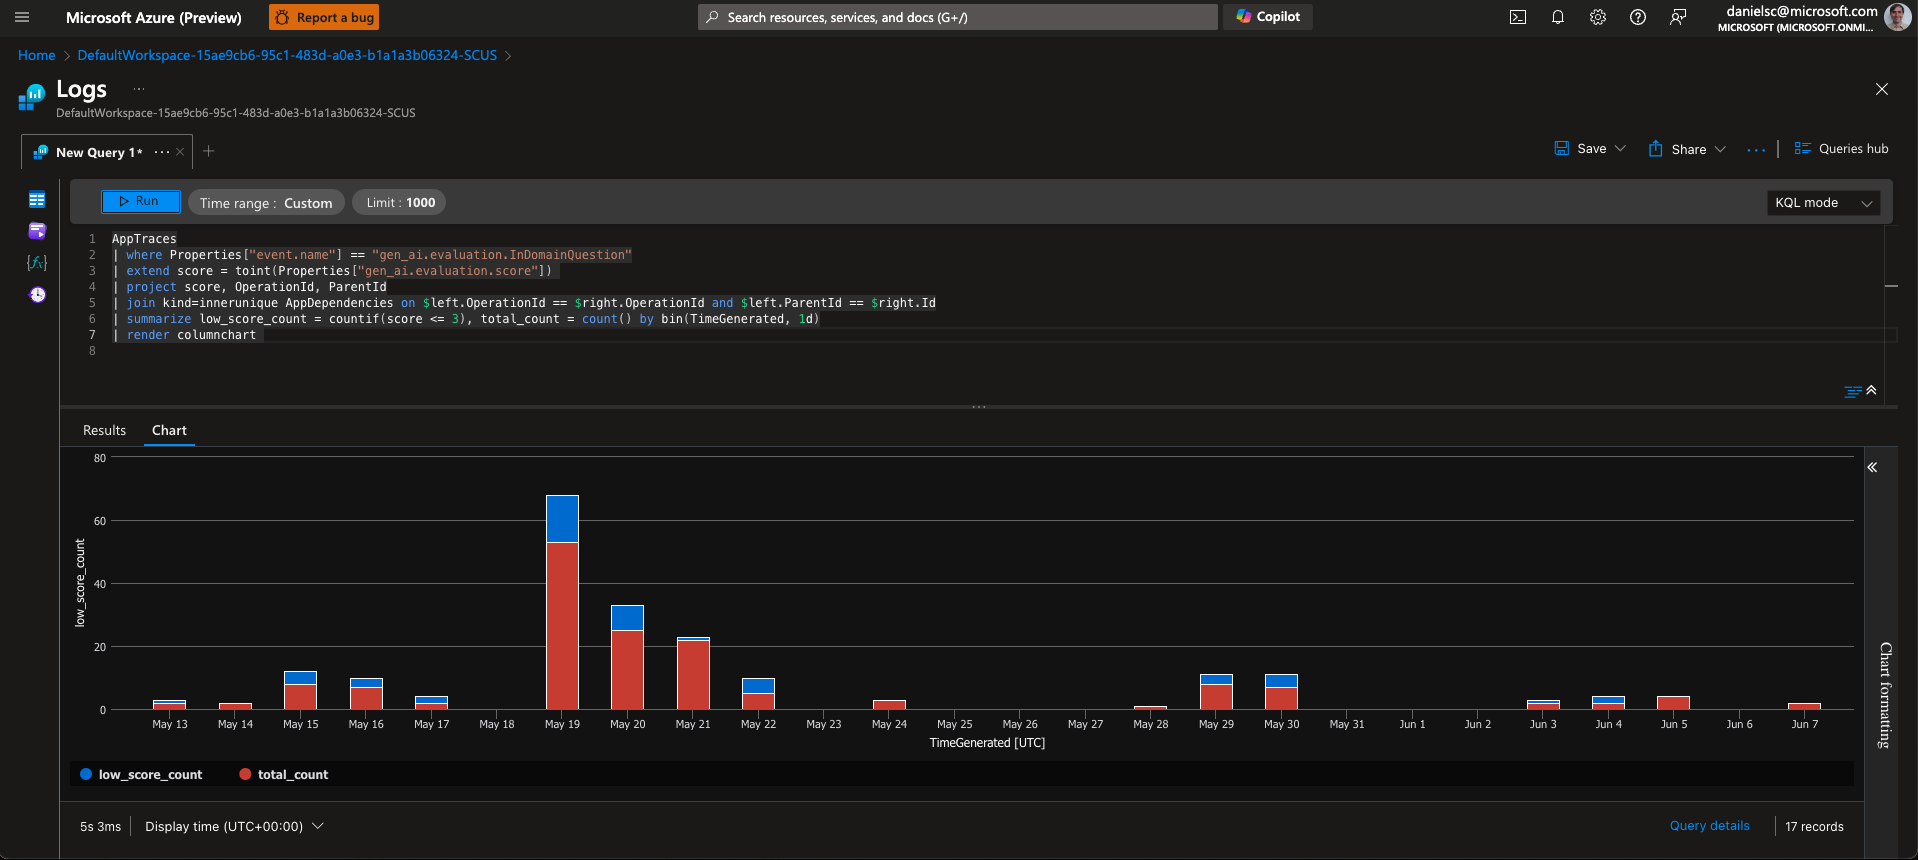
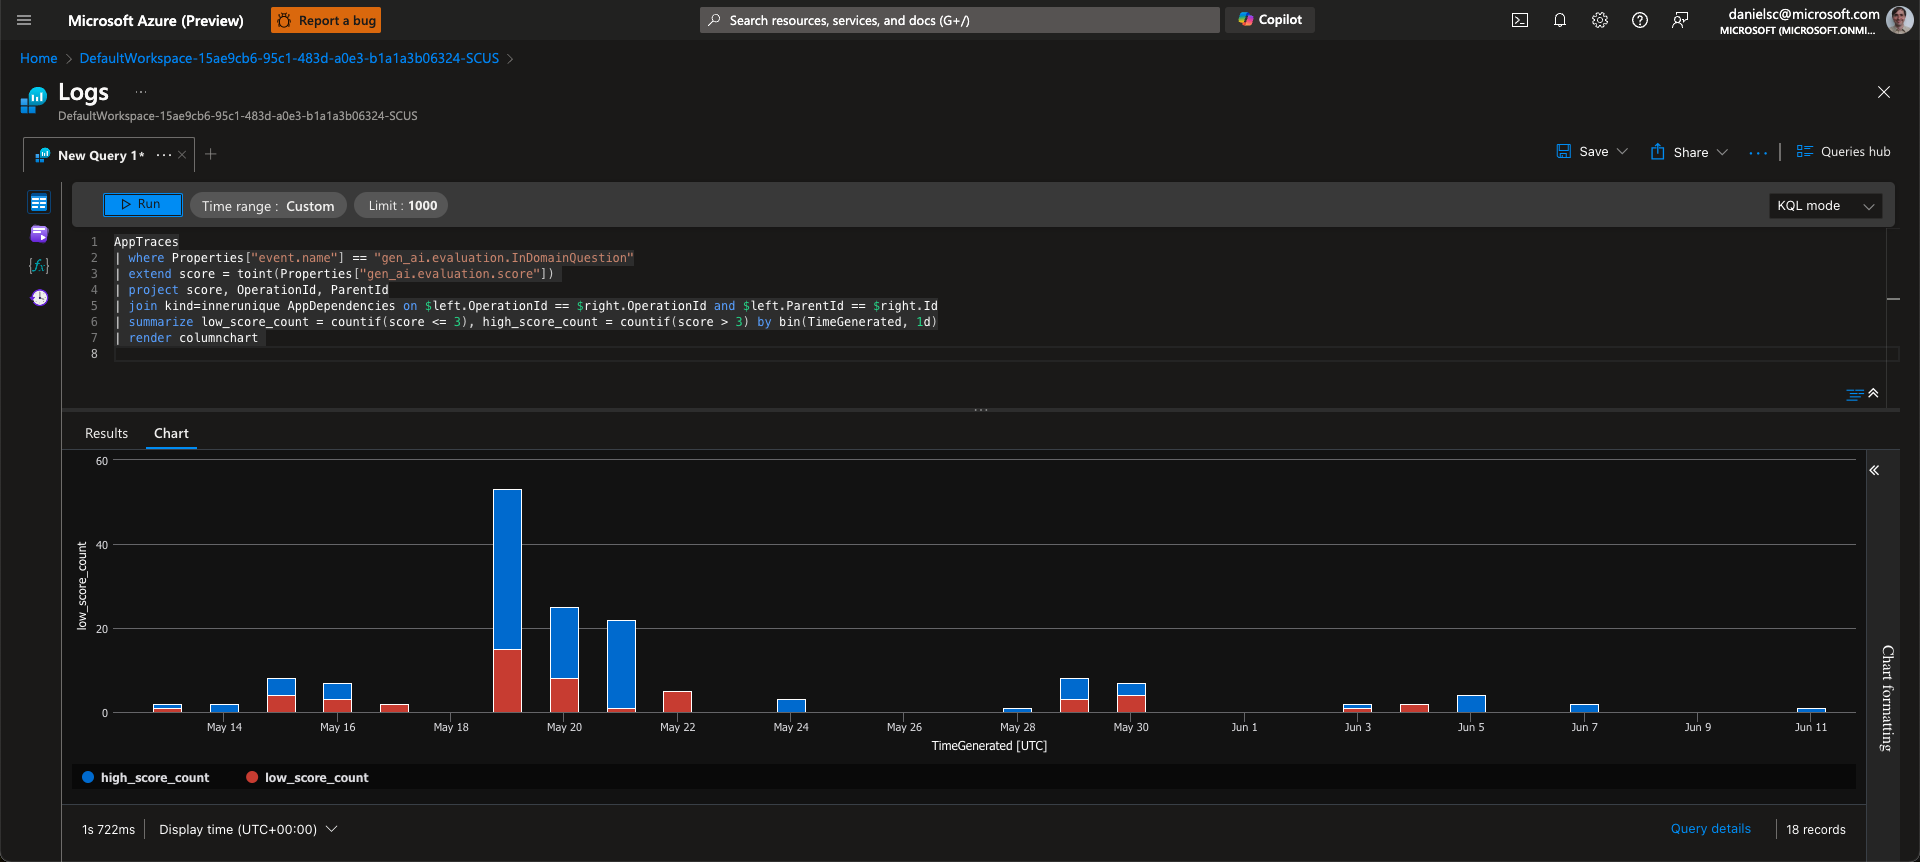
fix query

diff --git a/README-Azure-Monitor.md b/README-Azure-Monitor.md
@@ -234,7 +234,7 @@ AppTraces
 | extend score = toint(Properties["gen_ai.evaluation.score"]) 
 | project score, OperationId, ParentId
 | join kind=innerunique AppDependencies on $left.OperationId == $right.OperationId and $left.ParentId == $right.Id
-| summarize low_score_count = countif(score <= 3), total_count = count() by bin(TimeGenerated, 1d)
+| summarize low_score_count = countif(score <= 3), high_score_count = countif(score > 3) by bin(TimeGenerated, 1d)
 | render columnchart 
 ```
 
